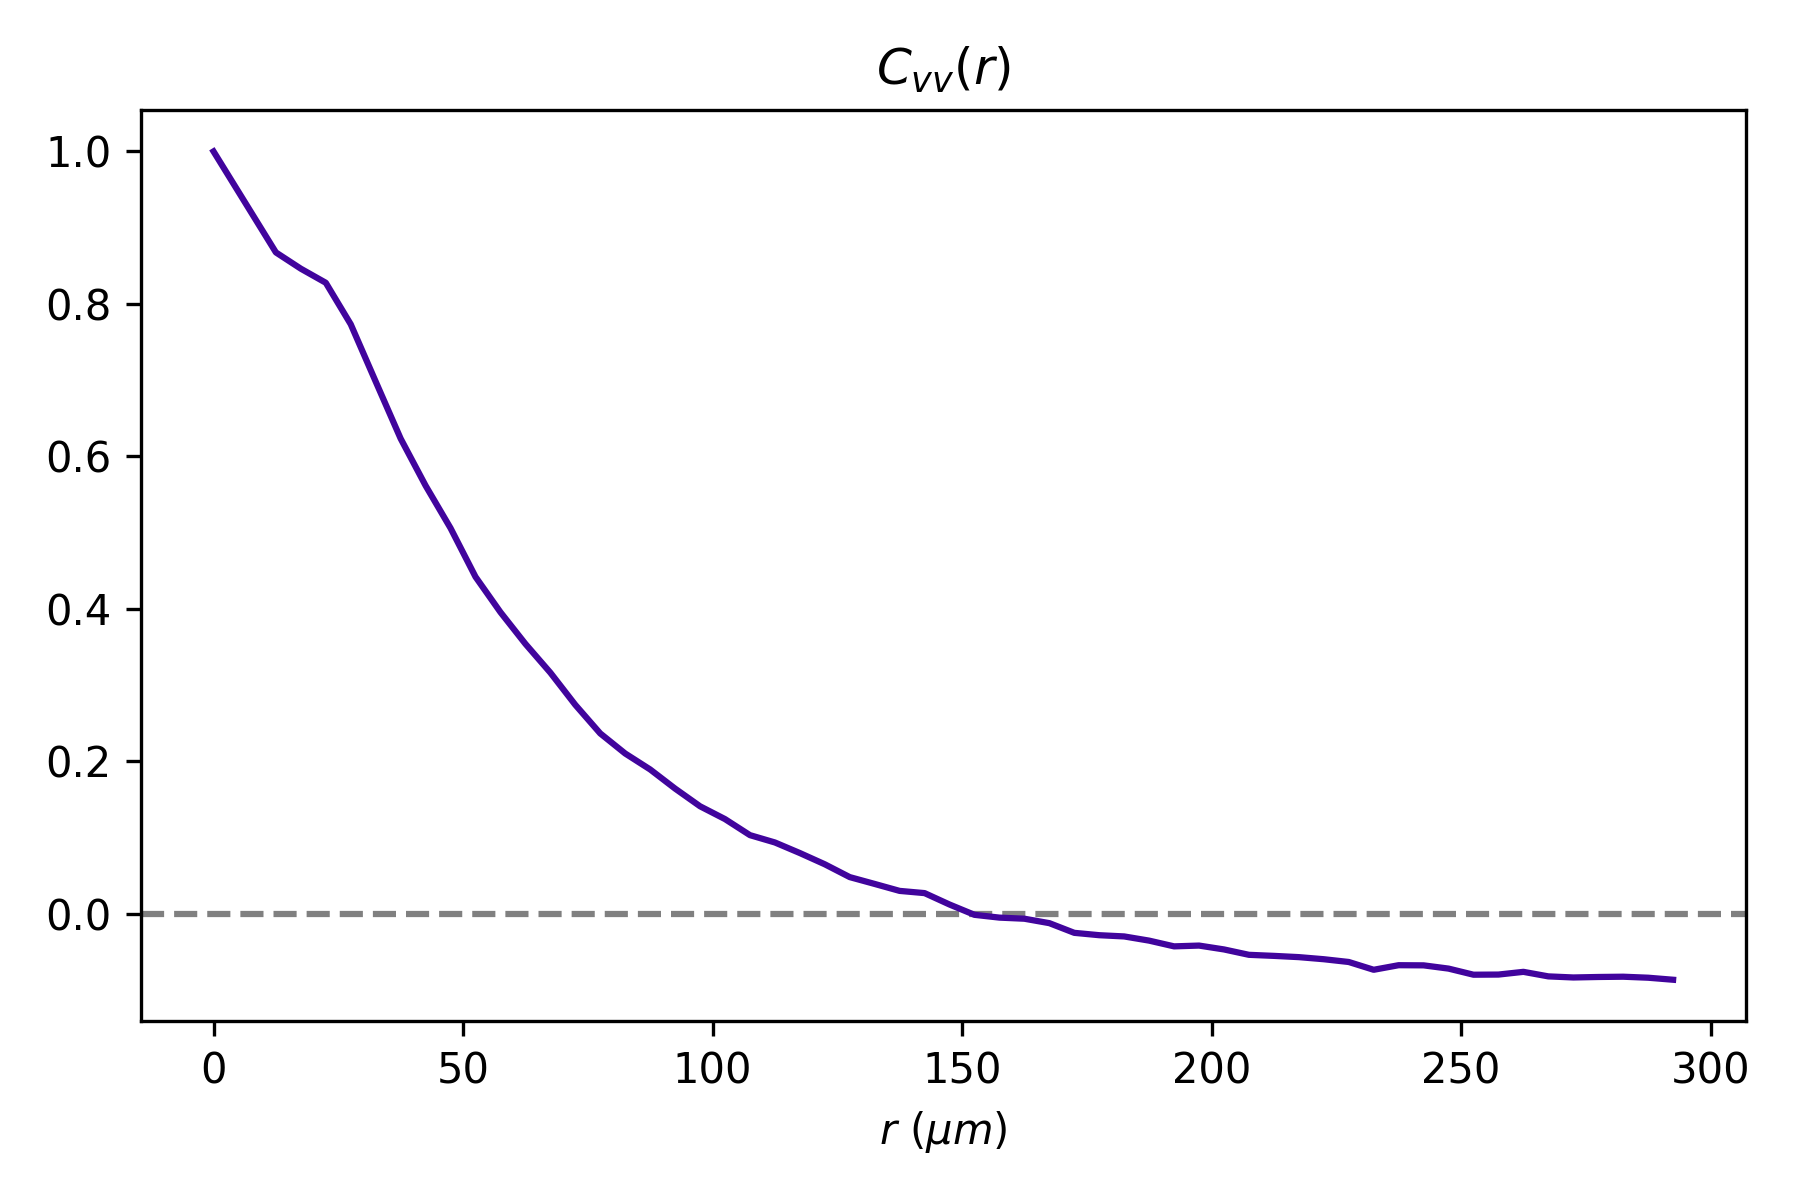
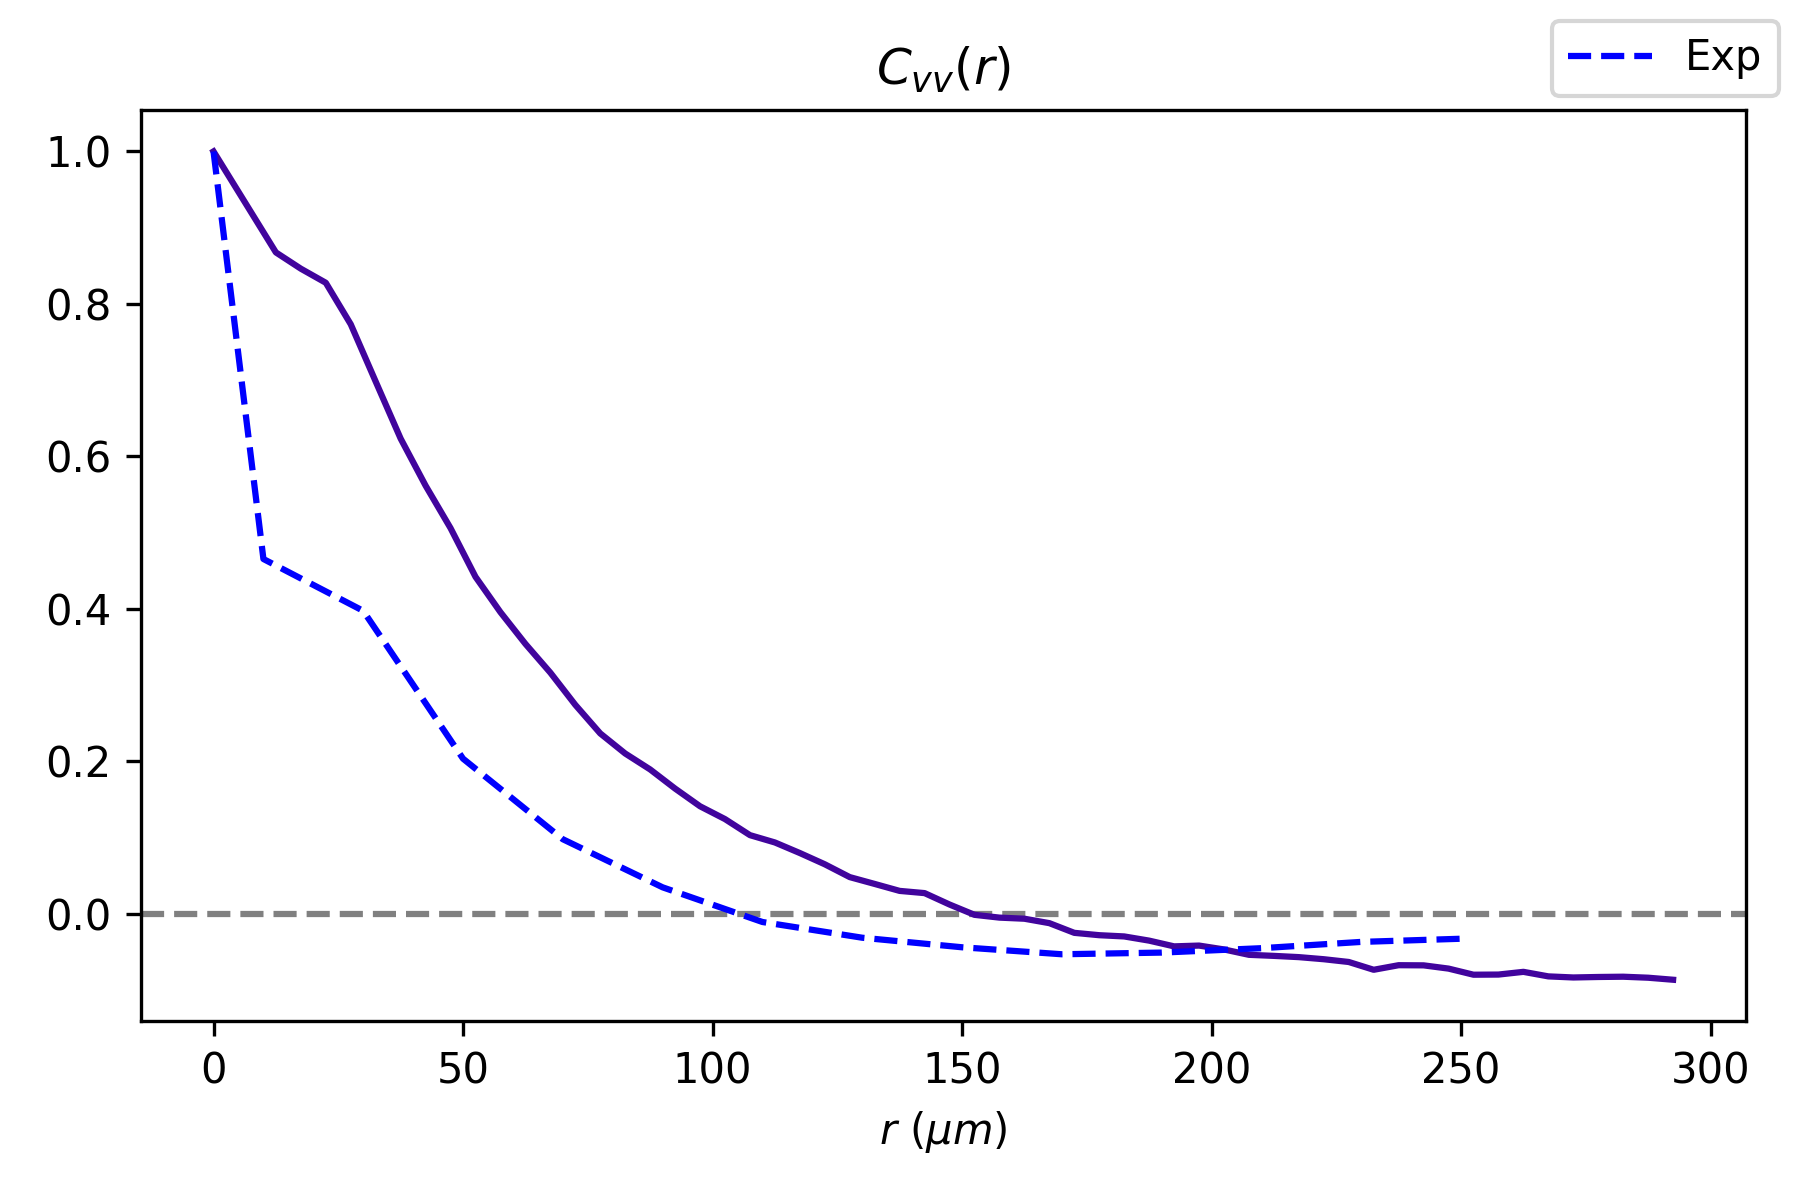
adding script for comparing sim and exp at same density

diff --git a/analysis/visualization/compare_correlation_to_experiment.py b/analysis/visualization/compare_correlation_to_experiment.py
@@ -1,0 +1,103 @@
+import sys
+import argparse
+import numpy as np
+import matplotlib as mpl
+import matplotlib.pyplot as plt
+
+from pathlib import Path
+from datetime import datetime
+
+sys.path.append("analysis/visualization")
+from plot_correlations import plot_correlation, sort_files, initialize_figure
+
+sys.path.append("exe/utils")
+from vm_functions import hexagon_side
+
+sys.path.append("analysis/experimental")
+from data_class import AutocorrelationData, SegmentationData
+
+date    = datetime.now().strftime('%Y%m%d')
+fig_dir = f"results/{date}/"
+Path(fig_dir).mkdir(parents=True, exist_ok=True)
+
+parser = argparse.ArgumentParser(description="Plot all defined autocorrelations")
+parser.add_argument('filepattern',   type=str, help="Path to files to plot. Typically 'data/simulated/obj/file'. Filename is on form <'path/to/file'>*.autocorr")
+parser.add_argument('param',         type=str, help="Parameter to plot correlation of (varvar)")
+parser.add_argument('var',           type=str, help="Correlation variable (t or r)")
+parser.add_argument('-l','--legend', type=str, help="Add legend (str)",                         default='')
+parser.add_argument('-c','--cmap',   type=str, help="Specify matplotlib colormap (str)",        default='plasma')
+parser.add_argument('-o','--outdir', type=str, help="Output directory",                         default="results/")
+parser.add_argument('-x', '--xlim',  type=float, help="Upper limit on x-axis", default=9999)
+parser.add_argument('-y', '--ylim',  type=float, help="Upper limit on x-axis", default=1.1)
+parser.add_argument('-u', '--units', type=str, help="Unit to plot in (sim or exp)", default='exp')
+parser.add_argument('--xlog', action="store_true")
+parser.add_argument('--ylog', action="store_true")
+parser.add_argument('--log',  action="store_true")
+parser.add_argument('--fmt',    default="-")
+parser.add_argument('--binsize',    type=int,   help="size of density bin", default=200)
+parser.add_argument('--frame_to_h', type=float, help="convert frame to h",  default=1/12)
+parser.add_argument('-r', '--return_plot', action="store_true")
+args = parser.parse_args()
+
+
+# load experimental data
+density = 1900
+
+# Add experimental data
+dataset = "holomonitor_20240301_B1-4"
+
+cellprop = SegmentationData()
+cellprop.load(f"data/experimental/processed/{dataset}/cell_props.p")
+cellcorr  = AutocorrelationData(f"data/experimental/processed/{dataset}/cell_autocorr.p")
+fieldcorr = AutocorrelationData(f"data/experimental/processed/{dataset}/field_autocorr.p")
+
+mask = (cellprop.density > density - args.binsize / 2) * (cellprop.density < density + args.binsize / 2)
+
+if args.param == "vv":
+    mask = mask[:-1]
+
+print(len(mask), len(cellcorr.spatial[args.param]))
+# take mean of correlations at this density
+if args.var == "r":
+    mean_correlation = np.ma.mean(cellcorr.spatial[args.param][mask], axis=0)
+    std_correlation  = np.ma.std(cellcorr.spatial[args.param][mask], axis=0)
+
+else:
+    mean_correlation = np.ma.mean(cellcorr.temporal[args.param][mask], axis=0)
+    std_correlation  = np.ma.std(cellcorr.temporal[args.param][mask], axis=0)
+
+# plot simulation
+
+# Sort data sets by legend value
+files_list, labels_list = sort_files(args.filepattern, args.legend)
+
+# Define line colors
+cmap   = mpl.colormaps[args.cmap]
+colors = cmap(np.linspace(0.1, 0.9, len(files_list)))
+
+# Plot each data set
+fig = initialize_figure(args.param, args)
+for file, label, color in zip(files_list, labels_list, colors):
+
+    plot_correlation(file, label, color, args)
+
+
+if args.var == "r":
+    plt.plot(cellcorr.r_array[args.param], mean_correlation, "b--", label="Exp")
+    # plt.fill_between(cellcorr.r_array[args.param], 
+    #                  mean_correlation - 1.96*std_correlation, 
+    #                  mean_correlation + 1.96*std_correlation,
+    #                  alpha=0.5, color="b")
+    out_path = f"{fig_dir}spatial_autocorrelation_{args.param}.png"
+
+else:
+    plt.plot(cellcorr.t_array[args.param] * args.frame_to_h, mean_correlation, "b--", label="Exp")
+    # plt.fill_between(cellcorr.t_array[args.param] * args.frame_to_h, 
+    #                  mean_correlation - 1.96*std_correlation, 
+    #                  mean_correlation + 1.96*std_correlation,
+    #                  alpha=0.5, color="b")
+    out_path = f"{fig_dir}temporal_autocorrelation_{args.param}.png"
+
+fig.legend()
+fig.tight_layout()
+fig.savefig(out_path)
